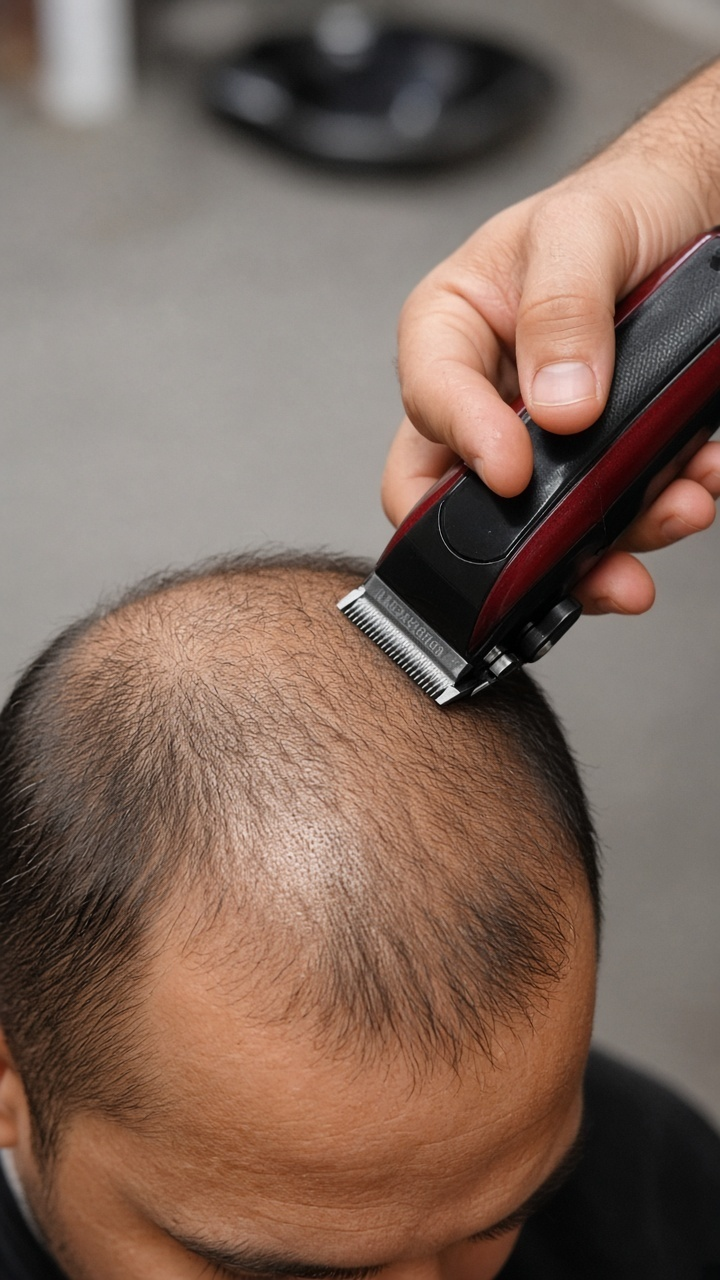
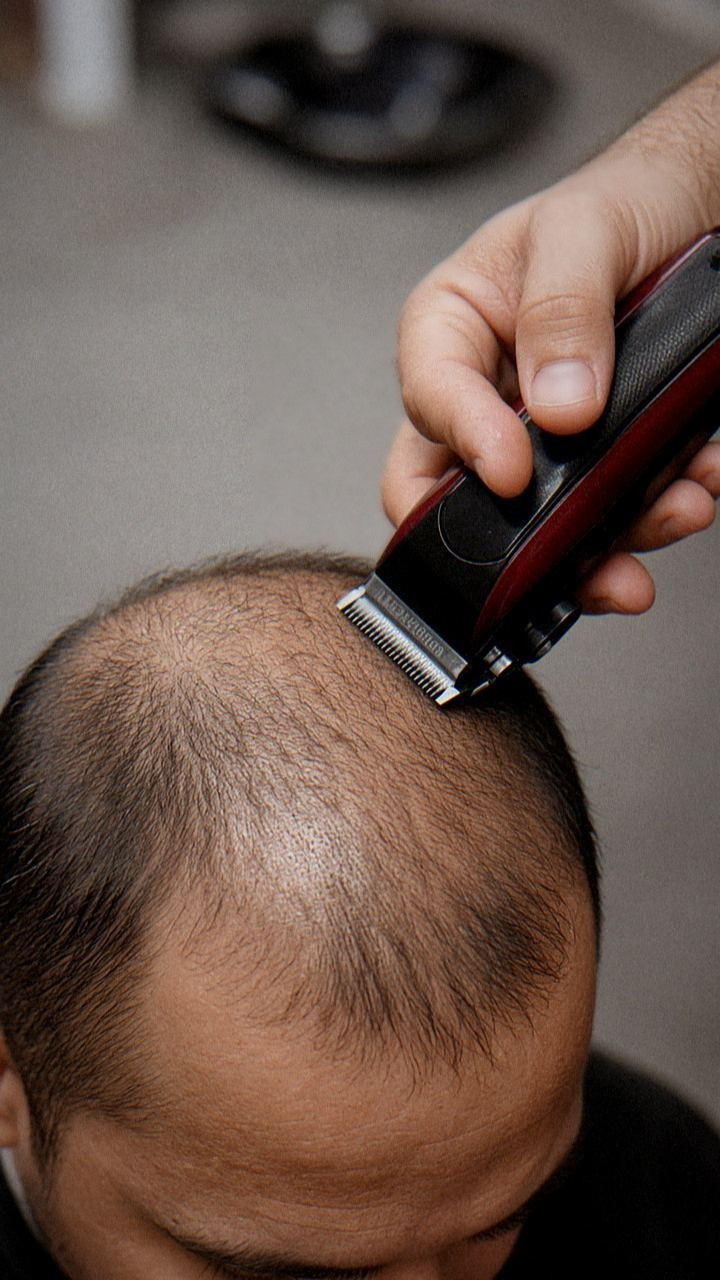
De-AI polish MM reel hook and tighten cover punch.
Phone grain/vignette on hook, smudge blade gibberish, blade-forward cover
with lean price chip to lift CTR without changing the concept.

diff --git a/scripts/mm_clipper_v8_95_reel.py b/scripts/mm_clipper_v8_95_reel.py
@@ -130,6 +130,29 @@ def grade(im: Image.Image, *, contrast: float = 1.1, bright: float = 0.94, color
     return ImageEnhance.Brightness(im).enhance(bright)
 
 
+def phone_photo(im: Image.Image, *, seed: int = 0, strength: float = 1.0) -> Image.Image:
+    """Break AI-clean look: grain, mild blur/sharpen, vignette — keeps the read intact."""
+    s = max(0.0, min(1.5, strength))
+    arr = np.array(im.convert("RGB")).astype(np.float32)
+    h, w = arr.shape[:2]
+    rng = np.random.default_rng(19_000 + int(seed) % 10_000)
+    grain = rng.normal(0, 5.5 * s, (h, w)).astype(np.float32)
+    arr[..., 0] += grain * 0.9
+    arr[..., 1] += grain * 0.85
+    arr[..., 2] += grain * 0.95
+    # soft vignette
+    yy, xx = np.mgrid[0:h, 0:w]
+    rad = np.sqrt(((yy - h / 2) / (h * 0.75)) ** 2 + ((xx - w / 2) / (w * 0.75)) ** 2)
+    vig = np.clip(1.0 - 0.18 * s * (rad ** 1.5), 0.82, 1.0)
+    arr *= vig[..., None]
+    out = Image.fromarray(np.clip(arr, 0, 255).astype(np.uint8))
+    out = out.filter(ImageFilter.GaussianBlur(0.35 * s))
+    out = ImageEnhance.Sharpness(out).enhance(1.0 + 0.22 * s)
+    out = ImageEnhance.Color(out).enhance(0.92)  # AI often oversaturates
+    out = ImageEnhance.Contrast(out).enhance(1.04)
+    return out
+
+
 def prepare_logo(path: Path, width: int = 200) -> Image.Image:
     logo = Image.open(path).convert("RGBA")
     arr = np.array(logo)
@@ -371,9 +394,9 @@ def draw_sparkles(canvas: Image.Image, t: float, amount: float):
 
 def beat_camera(t: float):
     if t < HOOK_END:
-        # punch into blade-on-scalp contact of the hand+clipper plate
-        z = 1.28 + 0.18 * ease_out(t / HOOK_END) + 0.02 * math.sin(t * 8)
-        return z, 0.54, 0.34, 0.0, 0.55 + 0.25 * math.sin(t * 22)
+        # tighter punch into blade teeth — stronger scroll-stop, less empty scalp
+        z = 1.38 + 0.22 * ease_out(t / HOOK_END) + 0.015 * math.sin(t * 7)
+        return z, 0.58, 0.30, 0.0, 0.45 + 0.22 * math.sin(t * 20)
     if t < STOP_END:
         return 1.0, 0.5, 0.45, 0.0, 0.0
     u = t - PRODUCT_IN
@@ -432,10 +455,11 @@ def frame_at(i: int, scalp: Image.Image, bottles: Image.Image, foam: Image.Image
     zoom, fx, fy, flash, shake = beat_camera(t)
 
     if t < HOOK_END:
-        # Real hand gripping a classic clipper on the scalp — instantly readable
+        # Real hand gripping a classic clipper — phone-grade to de-AI the plate
         hook = load_hook_plate(scalp)
         plate = cover_window(hook, zoom=zoom, focus_x=fx, focus_y=fy)
-        plate = grade(plate, contrast=1.18, bright=0.92, color=1.06)
+        plate = grade(plate, contrast=1.12, bright=0.94, color=0.98)
+        plate = phone_photo(plate, seed=i, strength=0.85)
         canvas = plate.convert("RGBA")
     elif t < STOP_END:
         canvas = Image.new("RGBA", (W, H), (6, 8, 12, 255))
@@ -612,36 +636,32 @@ def make_audio(path: Path):
 
 
 def build_hook_cover(scalp: Image.Image) -> Image.Image:
-    """Viral scroll-stop cover: real clipper-in-hand + BF chip."""
+    """Scroll-stop cover: blade-forward crop + lean offer (less sticker clutter)."""
     hook = load_hook_plate(scalp)
-    plate = cover_window(hook, zoom=1.42, focus_x=0.54, focus_y=0.34)
-    plate = grade(plate, contrast=1.20, bright=0.90, color=1.06)
+    # tighter on teeth/hand — stronger first-frame punch
+    plate = cover_window(hook, zoom=1.62, focus_x=0.60, focus_y=0.28)
+    plate = grade(plate, contrast=1.14, bright=0.93, color=0.97)
+    plate = phone_photo(plate, seed=7, strength=1.0)
     canvas = plate.convert("RGBA")
-    chip_block(canvas, int(H * 0.08), ["לגלח את זה", "ולגמור עם זה?"], size=64, opacity=1.0, style="hook", pop=1.0)
+    chip_block(canvas, int(H * 0.07), ["לגלח את זה", "ולגמור עם זה?"], size=60, opacity=1.0, style="hook", pop=1.0)
 
     layer = Image.new("RGBA", (W, H), (0, 0, 0, 0))
     d = ImageDraw.Draw(layer)
-    y = int(H * 0.72)
+    y = int(H * 0.78)
 
     def measure(text: str, size: int):
         bb = ImageDraw.Draw(Image.new("RGBA", (1, 1))).textbbox((0, 0), text, font=font(size))
         return bb[2] - bb[0], bb[3] - bb[1]
 
-    bf = "BLACK FRIDAY"
-    ww, hh = measure(bf, 40)
-    bfw, bfh = ww + 44, hh + 22
-    bfx = (W - bfw) // 2
-    d.rounded_rectangle((bfx, y, bfx + bfw, y + bfh), radius=12, fill=(196, 22, 32, 245))
-    draw_text(d, (W // 2, y + bfh // 2), bf, size=40, fill=(255, 255, 255, 255))
-    y += bfh + 14
+    # lean stack — price dominates, less banner spam
     price = "375₪"
-    ww, hh = measure(price, 100)
-    pw, ph = ww + 56, hh + 30
+    ww, hh = measure(price, 108)
+    pw, ph = ww + 56, hh + 28
     px = (W - pw) // 2
-    d.rounded_rectangle((px, y, px + pw, y + ph), radius=22, fill=(0, 0, 0, 245))
-    draw_text(d, (W // 2, y + ph // 2), price, size=100, fill=(255, 255, 255, 255))
-    y += ph + 14
-    draw_text(d, (W // 2, y), "6 בקבוקים · טיפות", size=34, fill=(255, 220, 80, 255))
+    d.rounded_rectangle((px, y, px + pw, y + ph), radius=22, fill=(0, 0, 0, 235))
+    draw_text(d, (W // 2, y + ph // 2), price, size=108, fill=(255, 255, 255, 255))
+    y += ph + 12
+    draw_text(d, (W // 2, y), "BLACK FRIDAY · 6 בקבוקים", size=32, fill=(255, 220, 80, 255))
     return Image.alpha_composite(canvas, layer).convert("RGB")
 
 
@@ -692,7 +712,7 @@ def render() -> Path:
     cover_path = OUT / "MinoxShop_MM_clipper_v8_COVER.jpg"
     cover.save(cover_path, quality=95)
 
-    print(f"Rendering {N} frames (v8 clear — hand+clipper hook, slower holds)…")
+    print(f"Rendering {N} frames (v8 de-AI — phone grain + tighter cover)…")
     for i in range(N):
         im = frame_at(i, scalp, bottles_p, foam_p, logo)
         im.save(frames / f"f_{i:05d}.png")

diff --git a/reels/members-mark-liquid-v8/README.md b/reels/members-mark-liquid-v8/README.md
@@ -2,10 +2,10 @@
 
 After IG upload feedback:
 - Hook is a real hand + classic barber clipper on scalp (`assets/clipper_hand_hook.jpg`) — instantly readable
-- Slower ~22s pace (longer hook / BF / foam holds)
-- Clean 6-bottle pack; BF stack clear of caps; logo only on CTA
-- Harder buzz → silence on «רגע» + stronger BF audio punch
-- Hook cover built-in
+- De-AI phone grade (grain / vignette / desat) so the hook feels less synthetic
+- Tighter blade-forward cover with lean price chip
+- Slower ~22s pace; clean 6-pack; logo CTA-only
+- Harder buzz → silence on «רגע» + BF punch
 
 ```bash
 python3 scripts/mm_clipper_v8_95_reel.py
